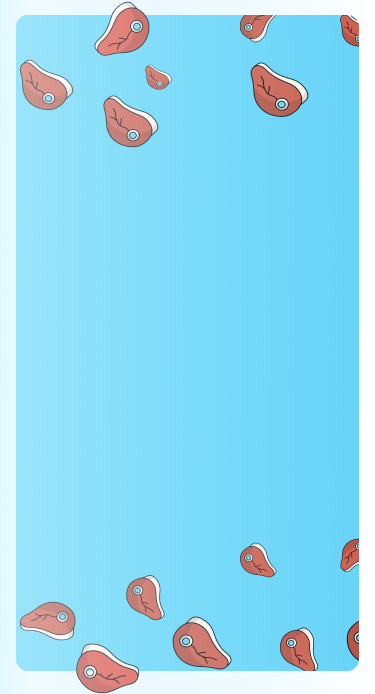
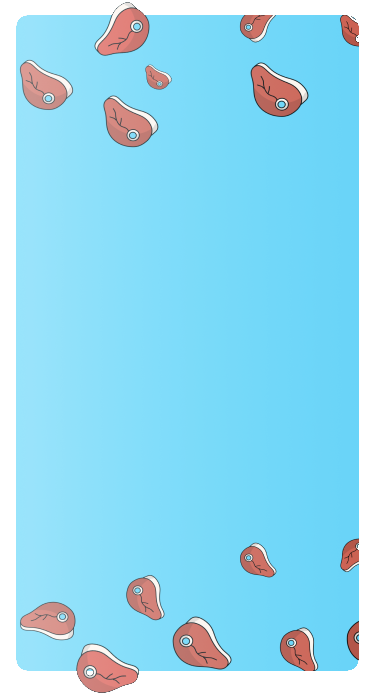
beefy blokes mobile positioning

Changed region(s): [[0.0, 0.0, 0.0293, 1.0], [0.264, 0.9986, 0.2933, 1.0], [0.2053, 0.9683, 0.2347, 0.9986]]

diff --git a/components/Landing/LandingContent.tsx b/components/Landing/LandingContent.tsx
@@ -9,8 +9,8 @@ const btnResponsiveW = 'sm:w-60 md:w-64 lg:w-72 xl:w-80 2xl:w-96'
 export default function LandingContent() {
     return (
         <section>
-            <div className='hidden sm:flex flex-col items-center h-full font-sniglet '>
-                <Image src={Wordmark} alt='Wordmark' className='sm:w-64 md:w-72 lg:w-96 xl:w-128 2xl:w-160  mb-10' />
+            <div className='hidden sm:flex flex-col items-center h-full font-sniglet'>
+                <Image src={Wordmark} alt='Wordmark' className='sm:w-64 md:w-72 lg:w-96 xl:w-128 2xl:w-160 mb-10' />
                 <h1 className={`text-white font-sniglet ${textResponsive}`}>
                     1500 NFT&apos;s that embody Aussie culture, with unique Aussie traits.
                 </h1>
@@ -26,7 +26,7 @@ export default function LandingContent() {
             </div>
 
             {/*  Mobile */}
-            <div className='sm:hidden flex flex-col items-center h-full font-sniglet mt-6 px-4 '>
+            <div className='sm:hidden flex flex-col items-center h-full font-sniglet mt-20 px-4 '>
                 <Image src={Wordmark} width='324' alt='Wordmark' />
                 <h1 className='font-sniglet text-white text-center'
                     style={{ fontSize: '18px', width: '310px' }}>

diff --git a/components/Landing/MainMobile.tsx b/components/Landing/MainMobile.tsx
@@ -5,7 +5,7 @@ import Bg from '../../public/images/LandingMobileBackground.png';
 export default function MainMobile({ children }: any) {
     return (
         <div className='absolute z-0 pt-12 top-0 w-full min-h-max' style={{
-            background: 'linear-gradient(180deg, rgba(104, 211, 248, 0) 0%, rgba(215, 245, 255, 0.385) 91.67%, rgba(186, 237, 255, 0.42) 100%)',
+            background: '',
             minHeight:'940px',
             height: '100vh'
         }}>
